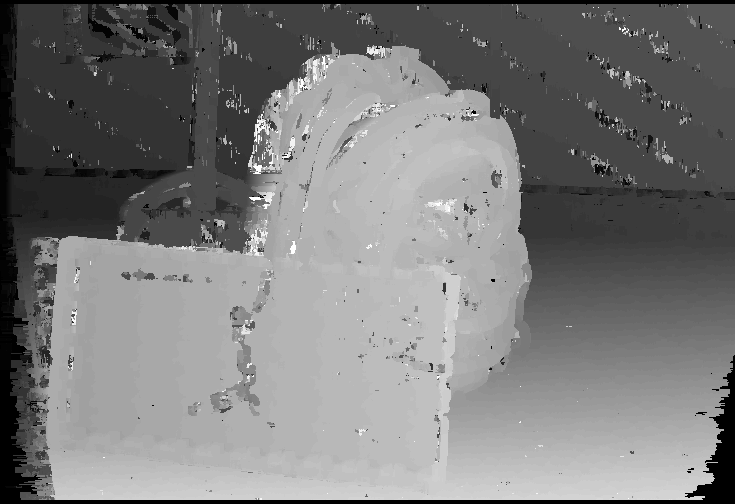
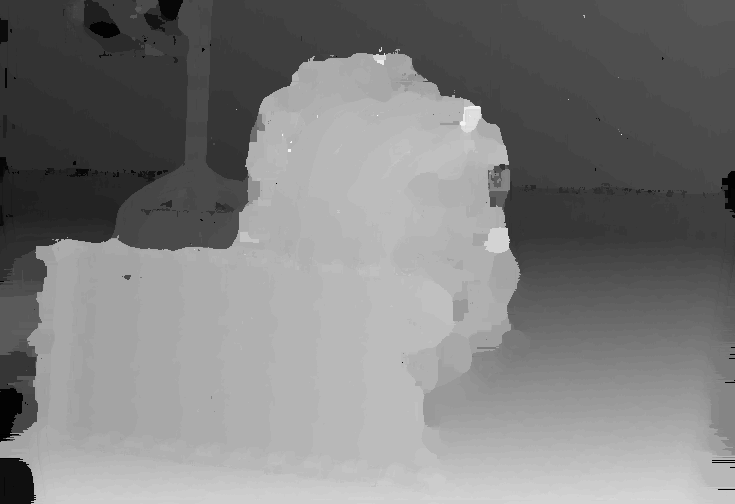
revamped occlusion fill kernel (median fill occlusion with multiple passes), other small fixes

diff --git a/main.cpp b/main.cpp
@@ -877,7 +877,7 @@ void stereo_disparity_opencl(const char* left_image_path, const char* right_imag
     */
 
 	// cross-check disparity maps
-    int threshold = 128;
+    int threshold = 4;
     clSetKernelArg(cross_check_kernel, 0, sizeof(cl_mem), &disparity_buf_LR);
     clSetKernelArg(cross_check_kernel, 1, sizeof(cl_mem), &disparity_buf_RL);
     clSetKernelArg(cross_check_kernel, 2, sizeof(cl_mem), &cross_checked_disparity_buf);
@@ -886,11 +886,11 @@ void stereo_disparity_opencl(const char* left_image_path, const char* right_imag
     clSetKernelArg(cross_check_kernel, 5, sizeof(int), &threshold);
     check_error(clEnqueueNDRangeKernel(queue, cross_check_kernel, 2, NULL, global_work_size, NULL, 0, NULL, NULL), "Running Cross-Check Kernel");
 
-    /*
+    
 	unsigned char* cross_checked_disparity_map = (unsigned char*)malloc(new_width * new_height * sizeof(unsigned char));
 	check_error(clEnqueueReadBuffer(queue, cross_checked_disparity_buf, CL_TRUE, 0, new_width* new_height * sizeof(unsigned char), cross_checked_disparity_map, 0, NULL, NULL), "Reading Cross-Checked Disparity Buffer");
 	WriteImage("cross_checked_disparity.png", cross_checked_disparity_map, new_width, new_height);
-    */
+    
    
     // apply occlusion filling
     clSetKernelArg(occlusion_kernel, 0, sizeof(cl_mem), &cross_checked_disparity_buf);
@@ -914,6 +914,7 @@ void stereo_disparity_opencl(const char* left_image_path, const char* right_imag
     free(left_image);
     free(right_image);
     free(disparity_map);
+	free(cross_checked_disparity_map);
     clReleaseMemObject(left_buf);
     clReleaseMemObject(right_buf);
     clReleaseMemObject(resized_left_buf);
